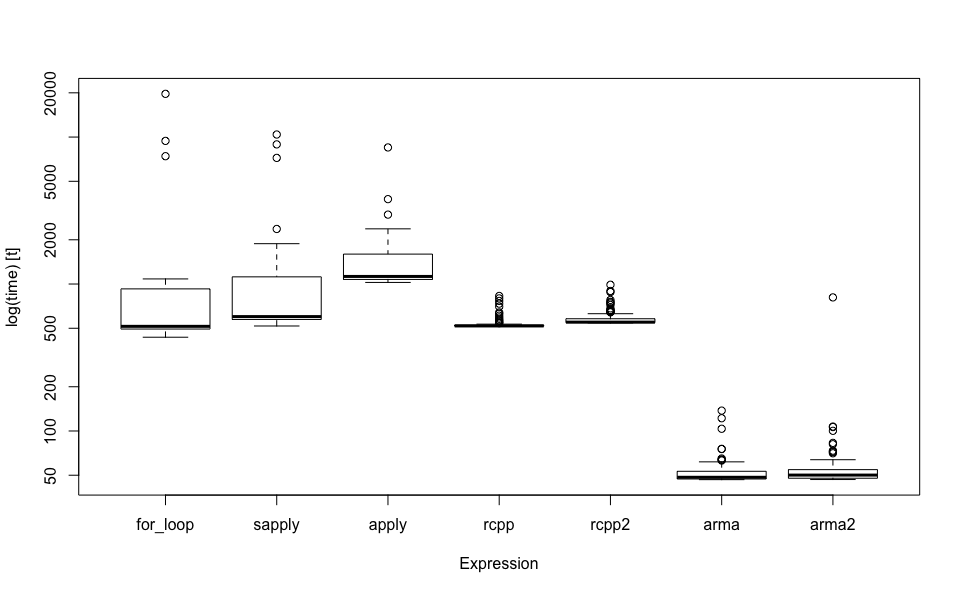
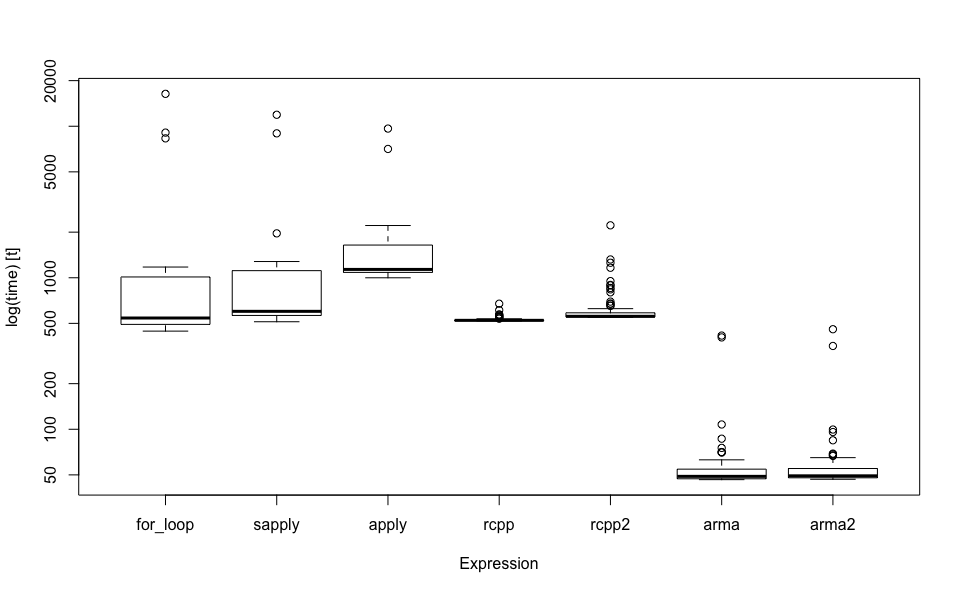
added travis badge to readme

diff --git a/README.md b/README.md
@@ -2,6 +2,8 @@
 
 <!-- README.md is generated from README.Rmd. Please edit that file -->
 
+![](https://travis-ci.org/dkidney/colprods.svg?branch=develop)
+
 # colprods
 
 The goal of colprods is to provide a simple example of how to
@@ -93,13 +95,13 @@ x = matrix(rnorm(nr * nc), nr, nc)
 bench_tall = x %>% bench
 bench_tall %>% print_bench
 #>      expr mean median mean_rel median_rel neval
-#>  for_loop  981    515     18.5       10.6   100
-#>    sapply 1034    600     19.5       12.4   100
-#>     apply 1430   1126     27.0       23.3   100
-#>      rcpp  538    519     10.1       10.7   100
-#>     rcpp2  585    550     11.0       11.4   100
-#>      arma   53     48      1.0        1.0   100
-#>     arma2   61     50      1.2        1.0   100
+#>  for_loop 1018    542     17.1       11.1   100
+#>    sapply  964    600     16.2       12.3   100
+#>     apply 1488   1135     25.0       23.2   100
+#>      rcpp  529    524      8.9       10.7   100
+#>     rcpp2  623    557     10.5       11.4   100
+#>      arma   60     49      1.0        1.0   100
+#>     arma2   60     49      1.0        1.0   100
 bench_tall %>% boxplot(log = TRUE)
 ```
 
@@ -114,13 +116,13 @@ x = matrix(rnorm(nr * nc), nr, nc)
 bench_wide = x %>% bench
 bench_wide %>% print_bench
 #>      expr mean median mean_rel median_rel neval
-#>  for_loop 2412   1790     36.1       34.1   100
-#>    sapply 2711   2423     40.6       46.1   100
-#>     apply 3390   2763     50.7       52.6   100
-#>      rcpp  553    533      8.3       10.1   100
-#>     rcpp2  631    562      9.4       10.7   100
-#>      arma   75     53      1.1        1.0   100
-#>     arma2   67     53      1.0        1.0   100
+#>  for_loop 2014   1790     31.0       34.9   100
+#>    sapply 3089   2383     47.6       46.4   100
+#>     apply 3543   2804     54.6       54.6   100
+#>      rcpp  567    532      8.7       10.4   100
+#>     rcpp2  642    568      9.9       11.1   100
+#>      arma   67     51      1.0        1.0   100
+#>     arma2   65     56      1.0        1.1   100
 bench_wide %>% boxplot(log = TRUE)
 ```
 
